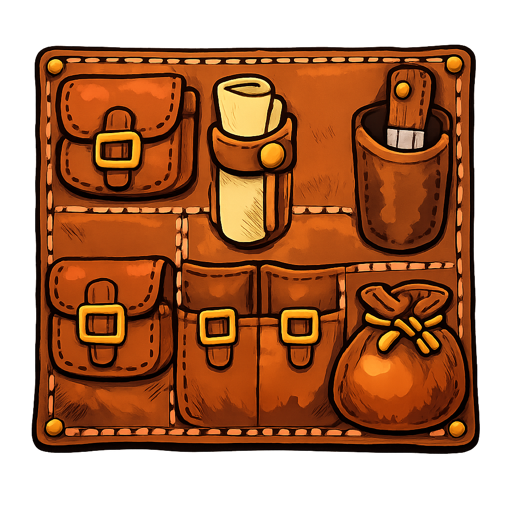
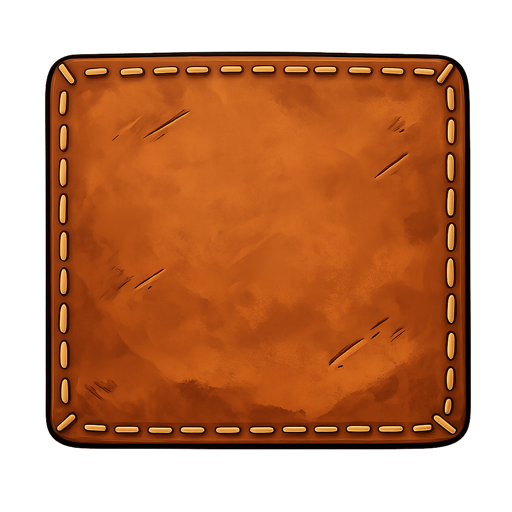
feat(prototype): wire pack-A art into live chrome
Closes the loop skeleton → generated assets → living screens:
- WoodBanner renders the plank art (CSS slab stays for analysis themes)
- nav orbs become world objects (map / compass / backpack icons)
- CoinBadge uses the campfire coin
- Journal scroll = stretched scroll art with rollers; Path parchment as
  a cover texture (stretching a torn sheet over long scroll was mush)
- Backpack grid on plain leather (regenerated: pockets art fought the
  CSS cells — prompt fix + $0.06 regen instead of hand-editing)

diff --git a/prototype/src/components/chrome.jsx b/prototype/src/components/chrome.jsx
@@ -3,8 +3,33 @@
  * Wood signs, chunky material buttons, parchment panels over a blurred camp.
  */
 
-/** Hanging wooden sign used as a screen title. */
-export function WoodBanner({ children, bg = 'linear-gradient(180deg, #8a5a30, #6b4226)', color = '#ffe9c9' }) {
+/** Hanging wooden sign used as a screen title.
+ *  Default = generated plank art (pack A); passing `bg` keeps the CSS slab
+ *  so analysis themes can reskin it. */
+export function WoodBanner({ children, bg, color = '#ffe9c9' }) {
+  if (!bg) {
+    return (
+      <div style={{ display: 'grid', placeItems: 'center' }}>
+        <div
+          style={{
+            backgroundImage: 'url(/assets/gen/packA/plank.png)',
+            backgroundSize: '100% 100%',
+            padding: '26px 46px 22px',
+            minWidth: 190,
+            textAlign: 'center',
+            color,
+            font: '800 15px var(--font-round)',
+            letterSpacing: 1,
+            textShadow: '0 2px 3px rgba(0,0,0,.55)',
+            transform: 'rotate(-1deg)',
+            filter: 'drop-shadow(0 4px 4px rgba(0,0,0,.35))',
+          }}
+        >
+          {children}
+        </div>
+      </div>
+    );
+  }
   return (
     <div style={{ display: 'grid', placeItems: 'center' }}>
       <div
@@ -56,8 +81,18 @@ export function ChunkyButton({ children, onClick, color = 'var(--chewy-orange)',
   );
 }
 
-/** Round wooden icon button for hub navigation (map, backpack, path). */
-export function IconOrb({ emoji, onClick, size = 46 }) {
+/** World-object nav button: generated item art (pack A) or an emoji fallback. */
+export function IconOrb({ emoji, icon, onClick, size = 46 }) {
+  if (icon) {
+    return (
+      <button
+        onClick={onClick}
+        style={{ width: size + 10, height: size + 10, padding: 0, background: 'none', border: 'none', cursor: 'pointer' }}
+      >
+        <img src={icon} alt="" style={{ width: '100%', display: 'block', filter: 'drop-shadow(0 3px 3px rgba(0,0,0,.45))' }} />
+      </button>
+    );
+  }
   return (
     <button
       onClick={onClick}
@@ -96,7 +131,8 @@ export function CoinBadge({ coins = 0 }) {
         boxShadow: '0 3px 0 var(--chewy-ink), inset 0 2px 0 rgba(255,255,255,.5)',
       }}
     >
-      🪙 {coins}
+      <img src="/assets/gen/packA/coin.png" alt="" style={{ width: 20, height: 20, display: 'block' }} />
+      {coins}
     </div>
   );
 }
@@ -129,8 +165,54 @@ export function CampBackdrop({ blur = 0, dim = 0 }) {
   );
 }
 
-/** Parchment scroll panel — lists live on paper, not in table views. */
-export function ScrollPanel({ children, width = '86%' }) {
+/** Parchment scroll panel — lists live on paper, not in table views.
+ *  art="scroll" (rollers) or art="map" (torn map sheet) uses pack-A art;
+ *  no art keeps the CSS parchment. */
+export function ScrollPanel({ children, width = '86%', art }) {
+  if (art === 'scroll') {
+    // stretch the whole scroll art: rollers top/bottom, generous padding
+    // because the paper sits inside the PNG's transparent margins
+    return (
+      <div
+        style={{
+          position: 'relative',
+          width,
+          margin: '0 auto',
+          backgroundImage: 'url(/assets/gen/packA/scroll.png)',
+          backgroundSize: '100% 100%',
+          padding: '62px 48px',
+          color: '#3a2c14',
+          font: '600 14px var(--font-round)',
+          filter: 'drop-shadow(0 10px 18px rgba(0,0,0,.45))',
+        }}
+      >
+        {children}
+      </div>
+    );
+  }
+  if (art === 'map') {
+    // long scrolling content: parchment as a cover texture, not a stretched sheet
+    return (
+      <div
+        style={{
+          position: 'relative',
+          width,
+          margin: '0 auto',
+          backgroundImage: 'url(/assets/gen/packA/parchment_map.png)',
+          backgroundSize: 'cover',
+          backgroundPosition: 'center',
+          borderRadius: 14,
+          border: '3px solid var(--chewy-ink)',
+          boxShadow: '0 10px 24px rgba(0,0,0,.45), inset 0 0 40px rgba(140,100,40,.3)',
+          padding: '24px 22px',
+          color: '#3a2c14',
+          font: '600 14px var(--font-round)',
+        }}
+      >
+        {children}
+      </div>
+    );
+  }
   return (
     <div
       style={{

diff --git a/prototype/src/screens/JournalScreen.jsx b/prototype/src/screens/JournalScreen.jsx
@@ -30,7 +30,7 @@ export function JournalScreen({ heroName = 'Chewy', meals = [], plate, mood = 'i
         </div>
 
         <div style={{ position: 'relative', zIndex: 1, flex: 1, overflowY: 'auto', paddingBottom: 12 }}>
-          <ScrollPanel>
+          <ScrollPanel art="scroll">
             {/* mood + day plate */}
             <div style={{ display: 'flex', alignItems: 'center', gap: 16, marginBottom: 14 }}>
               <span style={{ fontSize: 42 }}>{MOOD_FACE[mood] ?? MOOD_FACE.idle}</span>
@@ -40,7 +40,7 @@ export function JournalScreen({ heroName = 'Chewy', meals = [], plate, mood = 'i
                 </div>
                 <div style={{ opacity: 0.7, fontSize: 12 }}>The plate fills as you feed him</div>
               </div>
-              <PlateRing plate={plate} size={72} />
+              <PlateRing plate={plate} size={56} />
             </div>
 
             {/* meal log — ink entries on parchment; deleting never rolls the day back */}
@@ -80,7 +80,7 @@ export function JournalScreen({ heroName = 'Chewy', meals = [], plate, mood = 'i
         </div>
 
         <div style={{ position: 'relative', zIndex: 1, display: 'flex', justifyContent: 'center', gap: 14, alignItems: 'center', padding: '12px 0 30px' }}>
-          <IconOrb emoji="🧭" onClick={onPath} />
+          <IconOrb icon="/assets/gen/packA/orb_compass.png" onClick={onPath} />
           <ChunkyButton onClick={onClose}>Back to camp</ChunkyButton>
         </div>
       </div>

diff --git a/prototype/src/screens/BackpackScreen.jsx b/prototype/src/screens/BackpackScreen.jsx
@@ -40,14 +40,16 @@ export function BackpackScreen({ coins = 0, owned = [], equipped = {}, onBuy, on
         <div style={{ position: 'relative', zIndex: 1, flex: 1, overflowY: 'auto', padding: '0 16px' }}>
           <div
             style={{
-              background: 'linear-gradient(180deg, #6b4a2b, #4e351d)',
+              backgroundImage: 'url(/assets/gen/packA/leather_panel.png)',
+              backgroundSize: 'cover',
+              backgroundPosition: 'center',
               border: '3px solid var(--chewy-ink)',
               borderRadius: 16,
-              boxShadow: 'inset 0 4px 12px rgba(0,0,0,.4)',
-              padding: 12,
+              padding: 14,
               display: 'grid',
               gridTemplateColumns: '1fr 1fr',
               gap: 10,
+              filter: 'drop-shadow(0 8px 16px rgba(0,0,0,.4))',
             }}
           >
             {[...ITEMS].sort((a, b) => a.cost - b.cost).map((item) => {

diff --git a/prototype/src/screens/HomeScreen.jsx b/prototype/src/screens/HomeScreen.jsx
@@ -29,9 +29,9 @@ export function HomeScreen({ status = 'idle', meals = [], plate, coins, fedToday
         )}
         {onJournal && (
           <div style={{ position: 'absolute', top: 44, right: 12, zIndex: 3, display: 'flex', flexDirection: 'column', gap: 10 }}>
-            <IconOrb emoji="🗺" onClick={onJournal} />
-            <IconOrb emoji="🧭" onClick={onPath} />
-            <IconOrb emoji="🎒" onClick={onBackpack} />
+            <IconOrb icon="/assets/gen/packA/orb_map.png" onClick={onJournal} />
+            <IconOrb icon="/assets/gen/packA/orb_compass.png" onClick={onPath} />
+            <IconOrb icon="/assets/gen/packA/orb_backpack.png" onClick={onBackpack} />
           </div>
         )}
 

diff --git a/prototype/src/screens/PathScreen.jsx b/prototype/src/screens/PathScreen.jsx
@@ -30,7 +30,7 @@ export function PathScreen({ streak = 5, record, days = [], onClose }) {
         </div>
 
         <div style={{ position: 'relative', zIndex: 1, flex: 1, overflowY: 'auto' }}>
-          <ScrollPanel>
+          <ScrollPanel art="map">
             {/* streak: ember pauses it, only 2+ silent days put it out; the record is forever */}
             <div style={{ textAlign: 'center', font: '800 18px var(--font-round)', marginBottom: 4 }}>
               🔥 {streak} days on the road
